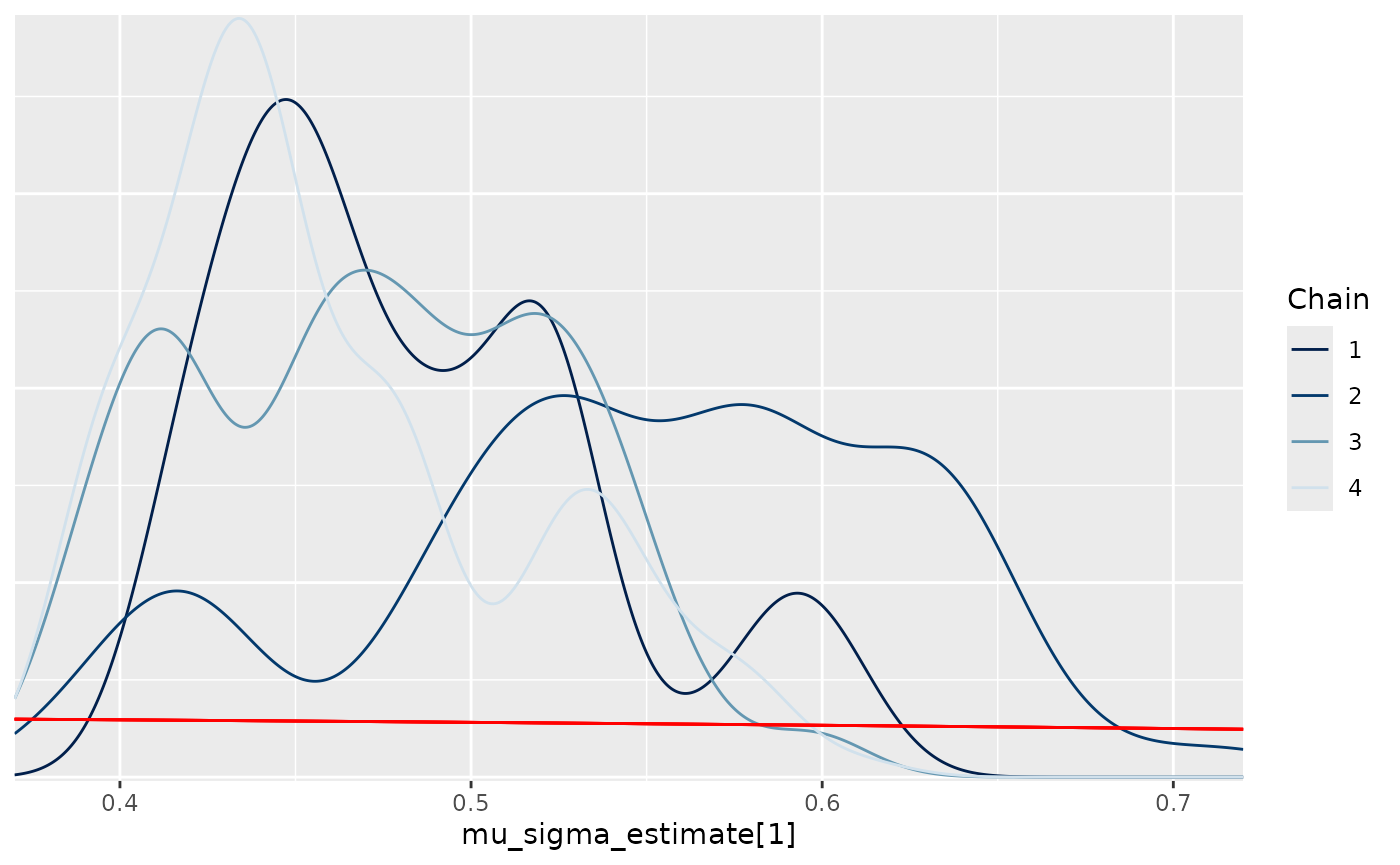
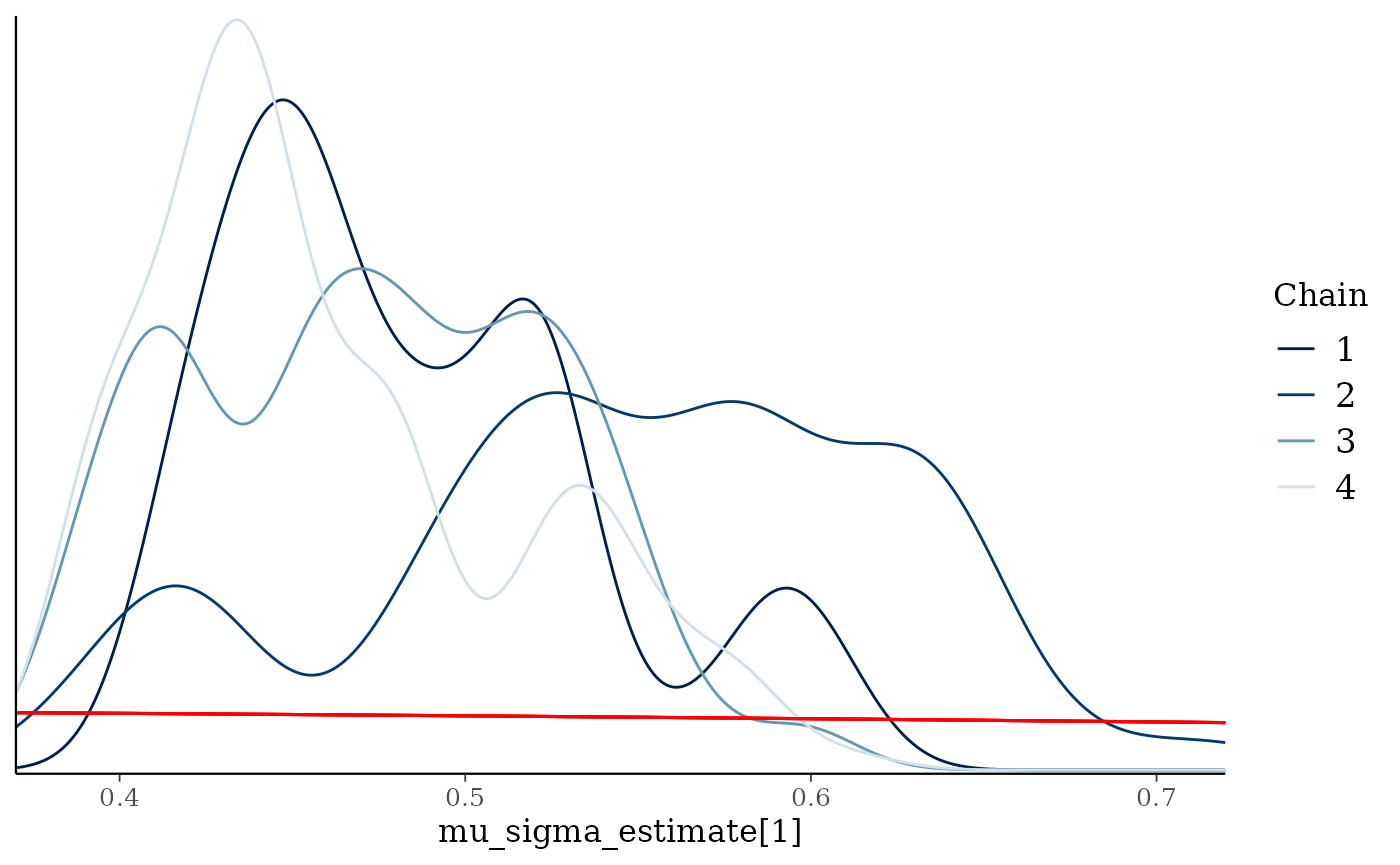
Deploying to gh-pages from @ AlkemaLab/localhierarchy@3f996922f217e5fecc08f1e55533dc252b399a94 🚀

diff --git a/articles/localhierarchy_article.html b/articles/localhierarchy_article.html
@@ -832,7 +832,7 @@ first 4 countries:</p>
 <span><span class="op">)</span></span>
 <span></span>
 <span><span class="va">plots</span><span class="op">$</span><span class="va">level1</span></span></code></pre></div>
-<p><img src="localhierarchy_article_files/figure-html/unnamed-chunk-21-1.png" class="r-plt" width="700"></p>
+<p><img src="localhierarchy_article_files/figure-html/unnamed-chunk-21-1.png" class="r-plt" alt="" width="700"></p>
 <p>By plotting results from global and local models, we can check how
 estimates compare and how values have been fixed in the local runs. For
 example, here we see how country estimates compare between global and
@@ -848,7 +848,7 @@ local models:</p>
 <span><span class="op">)</span></span>
 <span></span>
 <span><span class="va">plots</span><span class="op">$</span><span class="va">level1</span></span></code></pre></div>
-<p><img src="localhierarchy_article_files/figure-html/unnamed-chunk-22-1.png" class="r-plt" width="700"></p>
+<p><img src="localhierarchy_article_files/figure-html/unnamed-chunk-22-1.png" class="r-plt" alt="" width="700"></p>
 <p>Estimates are similar, as expected.</p>
 <p>When visualizing higher levels, we see how parameters were fixed in
 the local model:</p>
@@ -861,7 +861,7 @@ the local model:</p>
 <span><span class="op">)</span></span>
 <span></span>
 <span><span class="va">plots</span><span class="op">$</span><span class="va">intercept</span> </span></code></pre></div>
-<p><img src="localhierarchy_article_files/figure-html/unnamed-chunk-23-1.png" class="r-plt" width="700"></p>
+<p><img src="localhierarchy_article_files/figure-html/unnamed-chunk-23-1.png" class="r-plt" alt="" width="700"></p>
 <p>We can also create plots for the
 <math display="inline" xmlns="http://www.w3.org/1998/Math/MathML"><semantics><mi>γ</mi><annotation encoding="application/x-tex">\gamma</annotation></semantics></math>s
 (<code>mu_raw</code>s):</p>
@@ -875,12 +875,12 @@ followed by the prior-posterior densities for the first
 (referring to the intercept).</p>
 <div class="sourceCode" id="cb46"><pre class="downlit sourceCode r">
 <code class="sourceCode R"><span><span class="va">plots</span><span class="op">[[</span><span class="st">"summary_plots"</span><span class="op">]</span><span class="op">]</span><span class="op">[[</span><span class="fl">1</span><span class="op">]</span><span class="op">]</span></span></code></pre></div>
-<p><img src="localhierarchy_article_files/figure-html/unnamed-chunk-25-1.png" class="r-plt" width="700"></p>
+<p><img src="localhierarchy_article_files/figure-html/unnamed-chunk-25-1.png" class="r-plt" alt="" width="700"></p>
 <div class="sourceCode" id="cb47"><pre class="downlit sourceCode r">
 <code class="sourceCode R"><span><span class="va">plots</span><span class="op">[[</span><span class="st">"plots_allmuraw"</span><span class="op">]</span><span class="op">]</span><span class="op">[[</span><span class="fl">1</span><span class="op">]</span><span class="op">]</span></span></code></pre></div>
 <pre><code><span><span class="co">## Warning: Multiple drawing groups in `geom_function()`</span></span>
 <span><span class="co">## <span style="color: #00BBBB;">ℹ</span> Did you use the correct <span style="color: #00BB00;">group</span>, <span style="color: #00BB00;">colour</span>, or <span style="color: #00BB00;">fill</span> aesthetics?</span></span></code></pre>
-<p><img src="localhierarchy_article_files/figure-html/unnamed-chunk-26-1.png" class="r-plt" width="700"></p>
+<p><img src="localhierarchy_article_files/figure-html/unnamed-chunk-26-1.png" class="r-plt" alt="" width="700"></p>
 <p>Plots with prior and posterior densities of the
 <math display="inline" xmlns="http://www.w3.org/1998/Math/MathML"><semantics><mi>σ</mi><annotation encoding="application/x-tex">\sigma</annotation></semantics></math>s
 can be produced as well:</p>
@@ -888,7 +888,7 @@ can be produced as well:</p>
 <code class="sourceCode R"><span><span class="fu"><a href="../reference/plot_prior_post_sigmas_localhierarchy.html">plot_prior_post_sigmas_localhierarchy</a></span><span class="op">(</span>fit <span class="op">=</span> <span class="va">global_fit</span>, parname <span class="op">=</span> <span class="st">"mu"</span><span class="op">)</span></span></code></pre></div>
 <pre><code><span><span class="co">## Warning: Multiple drawing groups in `geom_function()`</span></span>
 <span><span class="co">## <span style="color: #00BBBB;">ℹ</span> Did you use the correct <span style="color: #00BB00;">group</span>, <span style="color: #00BB00;">colour</span>, or <span style="color: #00BB00;">fill</span> aesthetics?</span></span></code></pre>
-<p><img src="localhierarchy_article_files/figure-html/unnamed-chunk-27-1.png" class="r-plt" width="700"></p>
+<p><img src="localhierarchy_article_files/figure-html/unnamed-chunk-27-1.png" class="r-plt" alt="" width="700"></p>
 </div>
 </div>
 <div class="section level3">

diff --git a/authors.html b/authors.html
@@ -59,14 +59,14 @@
       <h2 id="citation">Citation</h2>
       <p><small class="dont-index">Source: <a href="https://github.com/AlkemaLab/localhierarchy/blob/main/DESCRIPTION" class="external-link"><code>DESCRIPTION</code></a></small></p>
 
-      <p>Alkema L, Mooney S, Ray E, Susmann H (2025).
+      <p>Alkema L, Mooney S, Ray E, Susmann H (2026).
 <em>localhierarchy: An R package to facilitate fitting of global and local Bayesian hierarchical models</em>.
 R package version 0.9, <a href="https://github.com/AlkemaLab/localhierarchy" class="external-link">https://github.com/AlkemaLab/localhierarchy</a>.
 </p>
       <pre>@Manual{,
   title = {localhierarchy: An R package to facilitate fitting of global and local Bayesian hierarchical models},
   author = {Leontine Alkema and Shauna Mooney and Evan Ray and Herbert Susmann},
-  year = {2025},
+  year = {2026},
   note = {R package version 0.9},
   url = {https://github.com/AlkemaLab/localhierarchy},
 }</pre>

diff --git a/authors.md b/authors.md
@@ -15,7 +15,7 @@
 Source:
 [`DESCRIPTION`](https://github.com/AlkemaLab/localhierarchy/blob/main/DESCRIPTION)
 
-Alkema L, Mooney S, Ray E, Susmann H (2025). *localhierarchy: An R
+Alkema L, Mooney S, Ray E, Susmann H (2026). *localhierarchy: An R
 package to facilitate fitting of global and local Bayesian hierarchical
 models*. R package version 0.9,
 <https://github.com/AlkemaLab/localhierarchy>.
@@ -23,7 +23,7 @@ models*. R package version 0.9,
     @Manual{,
       title = {localhierarchy: An R package to facilitate fitting of global and local Bayesian hierarchical models},
       author = {Leontine Alkema and Shauna Mooney and Evan Ray and Herbert Susmann},
-      year = {2025},
+      year = {2026},
       note = {R package version 0.9},
       url = {https://github.com/AlkemaLab/localhierarchy},
     }